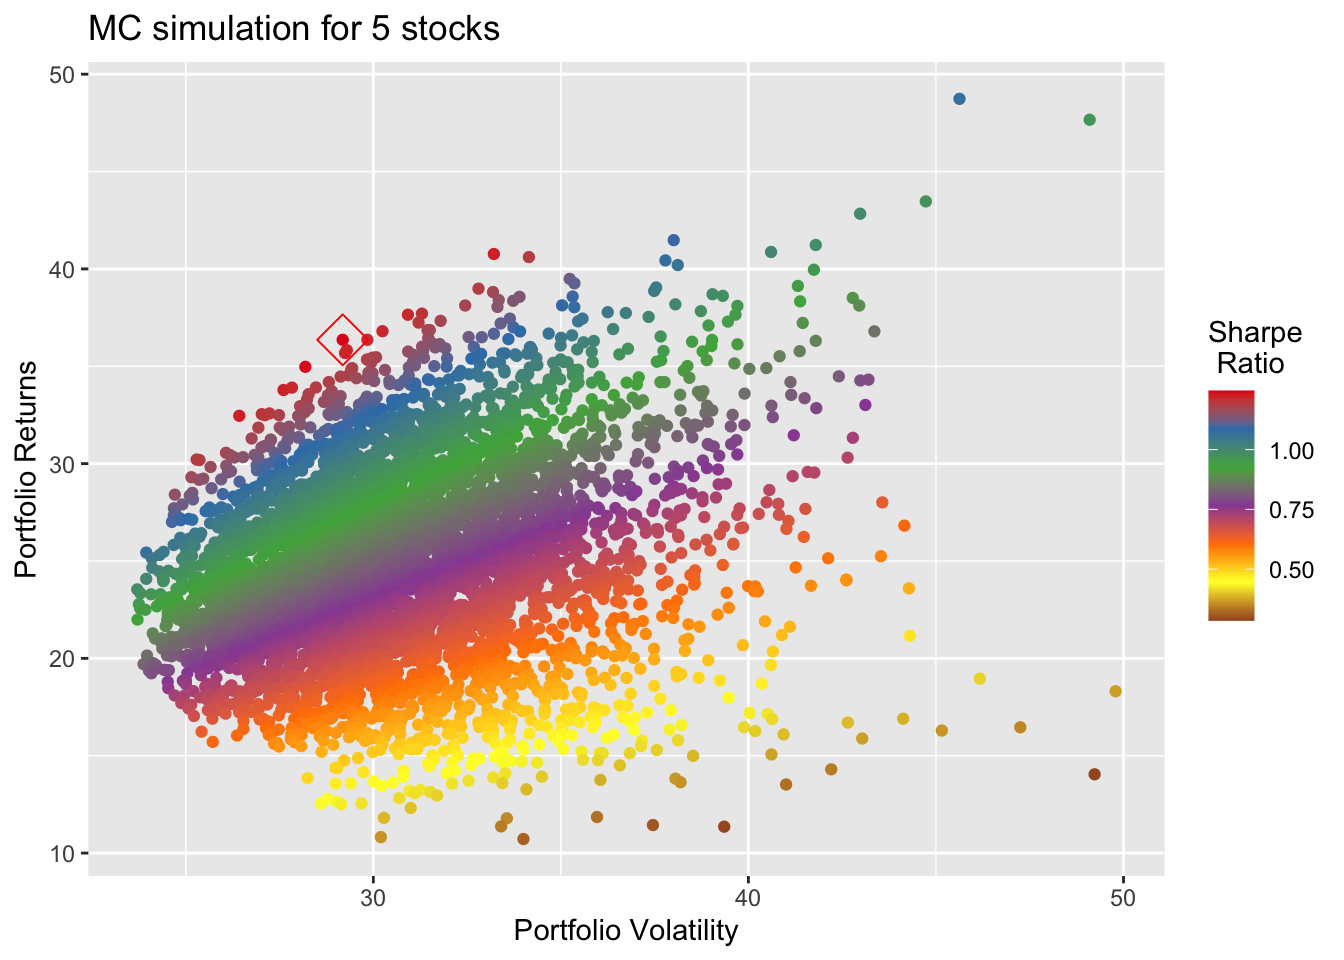
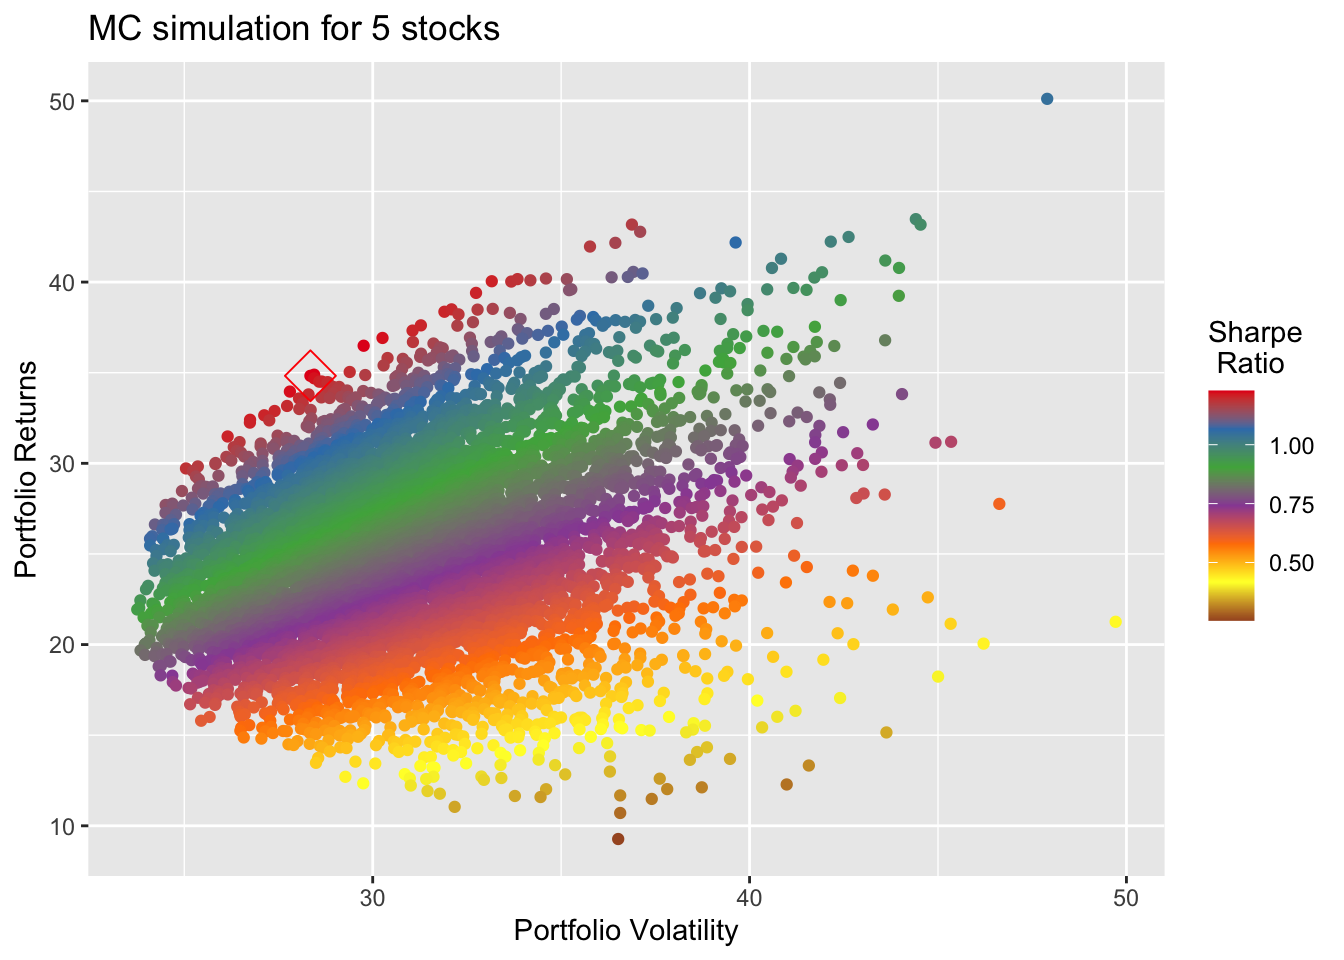
adjusted number of simulation and rounding of figures

diff --git a/docs/posts/portfolio_optimization_parti_inR/index.html b/docs/posts/portfolio_optimization_parti_inR/index.html
@@ -385,7 +385,8 @@ code span.wa { color: #60a0b0; font-weight: bold; font-style: italic; } /* Warni
 <p>Weights of each assets are <span class="math inline">\(w = \pmatrix{w_1 \\ w_2 \\ \vdots \\ w_n}\)</span>.<br>
 Mean returns of each assets are <span class="math inline">\(\mu = \pmatrix{\mu_1 \\ \mu_2 \\ \vdots \\ \mu_n}\)</span></p>
 <p>Then, the <strong>expected portfolio return</strong> is <span class="math inline">\(\mu_{\pi} = w^{T} \cdot \mu\)</span> where <span class="math inline">\(w^{T}\)</span> is the transpose of <span class="math inline">\(w\)</span> (aka transforming <span class="math inline">\(w\)</span> from a column vector to a row vector in order to have right dimensions to compute the dot product).</p>
-<p>And the <strong>expected portfolio variance</strong> is computed by <span class="math inline">\(\sigma_{\pi}^2 = w^T \cdot \Sigma \cdot w\)</span> where <span class="math inline">\(\sigma\)</span> is the covariance matrix.</p>
+<p>And the <strong>expected portfolio variance</strong> is computed by <span class="math display">\[\sigma_{\pi}^2 = w^T \cdot \Sigma \cdot w\]</span> where <span class="math inline">\(\Sigma\)</span> is the covariance matrix. Also, don’t forget to square root the variance when using sd: <span class="math inline">\(\sigma_{\pi} = \sqrt{w^T \cdot \Sigma \cdot w}\)</span></p>
+<p>To put this into code, we first create the matrix of returns,then create the covariance matrix. Using both matrices, we create a function that return the portfolio mean and variance using the randomly chosen weights.</p>
 <div class="cell">
 <div class="sourceCode cell-code" id="cb4"><pre class="sourceCode r code-with-copy"><code class="sourceCode r"><span id="cb4-1"><a href="#cb4-1" aria-hidden="true" tabindex="-1"></a><span class="co"># this df to provide vectors of expected returns</span></span>
 <span id="cb4-2"><a href="#cb4-2" aria-hidden="true" tabindex="-1"></a>df_stat <span class="ot">&lt;-</span> df <span class="sc">|&gt;</span> </span>
@@ -416,14 +417,14 @@ Mean returns of each assets are <span class="math inline">\(\mu = \pmatrix{\mu_1
 <span id="cb4-27"><a href="#cb4-27" aria-hidden="true" tabindex="-1"></a>  sharpe_ratio <span class="ot">=</span> return_pi <span class="sc">/</span> volat_pi</span>
 <span id="cb4-28"><a href="#cb4-28" aria-hidden="true" tabindex="-1"></a>  </span>
 <span id="cb4-29"><a href="#cb4-29" aria-hidden="true" tabindex="-1"></a>  <span class="co"># wrap everything into a df for later checks / analysis</span></span>
-<span id="cb4-30"><a href="#cb4-30" aria-hidden="true" tabindex="-1"></a>  df <span class="ot">&lt;-</span> <span class="fu">tibble</span>(<span class="at">portf_ret =</span> return_pi <span class="sc">*</span> <span class="dv">100</span>, <span class="at">portf_volat =</span> volat_pi <span class="sc">*</span> <span class="dv">100</span>, </span>
-<span id="cb4-31"><a href="#cb4-31" aria-hidden="true" tabindex="-1"></a>               <span class="at">weights =</span> <span class="fu">t</span>(weights), <span class="at">sharpe_ratio =</span> sharpe_ratio)</span>
+<span id="cb4-30"><a href="#cb4-30" aria-hidden="true" tabindex="-1"></a>  df <span class="ot">&lt;-</span> <span class="fu">tibble</span>(<span class="at">portf_ret =</span> <span class="fu">round</span>(return_pi <span class="sc">*</span> <span class="dv">100</span>, <span class="dv">4</span>), <span class="at">portf_volat =</span> <span class="fu">round</span>(volat_pi <span class="sc">*</span> <span class="dv">100</span>, <span class="dv">4</span>),  </span>
+<span id="cb4-31"><a href="#cb4-31" aria-hidden="true" tabindex="-1"></a>               <span class="at">weights =</span> <span class="fu">round</span>(<span class="fu">t</span>(weights) <span class="sc">*</span> <span class="dv">100</span>, <span class="dv">4</span>), <span class="at">sharpe_ratio =</span> sharpe_ratio)</span>
 <span id="cb4-32"><a href="#cb4-32" aria-hidden="true" tabindex="-1"></a></span>
 <span id="cb4-33"><a href="#cb4-33" aria-hidden="true" tabindex="-1"></a>  <span class="fu">return</span>(df)</span>
 <span id="cb4-34"><a href="#cb4-34" aria-hidden="true" tabindex="-1"></a>}</span>
 <span id="cb4-35"><a href="#cb4-35" aria-hidden="true" tabindex="-1"></a></span>
 <span id="cb4-36"><a href="#cb4-36" aria-hidden="true" tabindex="-1"></a><span class="co">#this is really the only inputs to get </span></span>
-<span id="cb4-37"><a href="#cb4-37" aria-hidden="true" tabindex="-1"></a>num_portfolio <span class="ot">=</span> <span class="dv">5000</span></span>
+<span id="cb4-37"><a href="#cb4-37" aria-hidden="true" tabindex="-1"></a>num_portfolio <span class="ot">=</span> <span class="dv">7000</span></span>
 <span id="cb4-38"><a href="#cb4-38" aria-hidden="true" tabindex="-1"></a></span>
 <span id="cb4-39"><a href="#cb4-39" aria-hidden="true" tabindex="-1"></a>mc_simu <span class="ot">=</span> <span class="fu">tibble</span>(<span class="at">id =</span> <span class="dv">1</span><span class="sc">:</span>num_portfolio) <span class="sc">|&gt;</span> </span>
 <span id="cb4-40"><a href="#cb4-40" aria-hidden="true" tabindex="-1"></a>  <span class="fu">mutate</span>(<span class="at">simul =</span> <span class="fu">map</span>(id, create_one_portfolio_simulation)) <span class="sc">|&gt;</span> </span>
@@ -433,14 +434,14 @@ Mean returns of each assets are <span class="math inline">\(\mu = \pmatrix{\mu_1
 <span id="cb4-44"><a href="#cb4-44" aria-hidden="true" tabindex="-1"></a><span class="fu">head</span>(mc_simu)</span></code><button title="Copy to Clipboard" class="code-copy-button"><i class="bi"></i></button></pre></div>
 <div class="cell-output cell-output-stdout">
 <pre><code># A tibble: 6 × 5
-     id portf_ret portf_volat weights[,1]  [,2]   [,3]  [,4]   [,5] sharpe_ratio
-  &lt;int&gt;     &lt;dbl&gt;       &lt;dbl&gt;       &lt;dbl&gt; &lt;dbl&gt;  &lt;dbl&gt; &lt;dbl&gt;  &lt;dbl&gt;        &lt;dbl&gt;
-1  4668      36.4        29.2     0.00548 0.325 0.0216 0.479 0.168          1.25
-2   900      35.0        28.2     0.0145  0.289 0.0150 0.474 0.208          1.24
-3  1872      32.5        26.4     0.00524 0.214 0.0173 0.499 0.265          1.23
-4  4041      40.8        33.2     0.0372  0.447 0.0104 0.460 0.0456         1.23
-5  2539      33.8        27.6     0.0403  0.263 0.0188 0.465 0.213          1.22
-6  4675      35.8        29.3     0.00473 0.331 0.0151 0.422 0.228          1.22</code></pre>
+     id portf_ret portf_volat weights[,1]  [,2]  [,3]  [,4]  [,5] sharpe_ratio
+  &lt;int&gt;     &lt;dbl&gt;       &lt;dbl&gt;       &lt;dbl&gt; &lt;dbl&gt; &lt;dbl&gt; &lt;dbl&gt; &lt;dbl&gt;        &lt;dbl&gt;
+1  6821      34.8        28.3        8.10  27.4  2.85  52.4  9.30         1.23
+2  6864      34.9        28.4        1.32  29.9  5.94  48.1 14.7          1.23
+3  5876      36.5        29.8        6.34  32.9  5.35  51.5  3.92         1.23
+4  3051      34.0        27.8        2.57  26.7  8.54  52.7  9.52         1.22
+5  3947      36.9        30.3        1.08  36.3  1.55  41.4 19.7          1.22
+6  5561      34.7        28.4        2.25  29.8  6.51  47.6 13.8          1.22</code></pre>
 </div>
 </div>
 <section id="vizualisation-of-mean-variances-points" class="level3">

diff --git a/docs/index.html b/docs/index.html
@@ -166,7 +166,7 @@ ul.task-list li input[type="checkbox"] {
 
 <div class="quarto-listing quarto-listing-container-default" id="listing-listing">
 <div class="list quarto-listing-default">
-<div class="quarto-post image-right" data-index="0" data-categories="portfolio,R-code,quant-finance,model" data-listing-date-sort="1677430800000" data-listing-file-modified-sort="1678503438400" data-listing-reading-time-sort="7.54">
+<div class="quarto-post image-right" data-index="0" data-categories="portfolio,R-code,quant-finance,model" data-listing-date-sort="1677430800000" data-listing-file-modified-sort="1678504480945" data-listing-reading-time-sort="7.84">
 <div class="thumbnail">
 <a href="./posts/portfolio_optimization_parti_inR/index.html">
 <div class="thumbnail-image">
